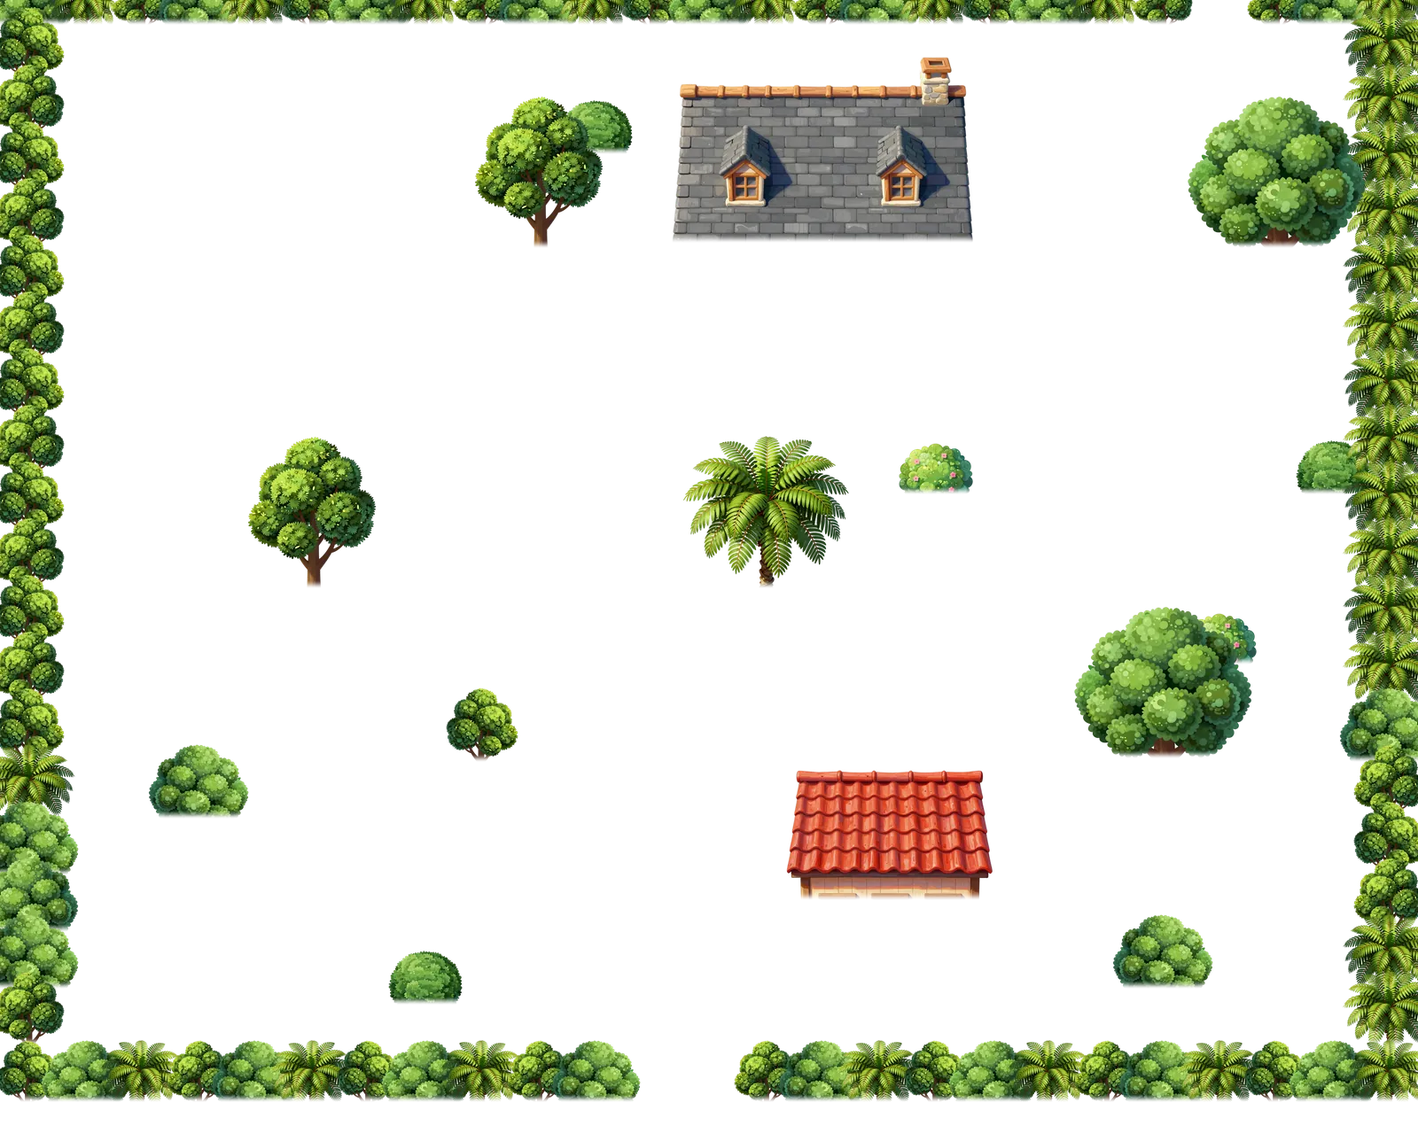
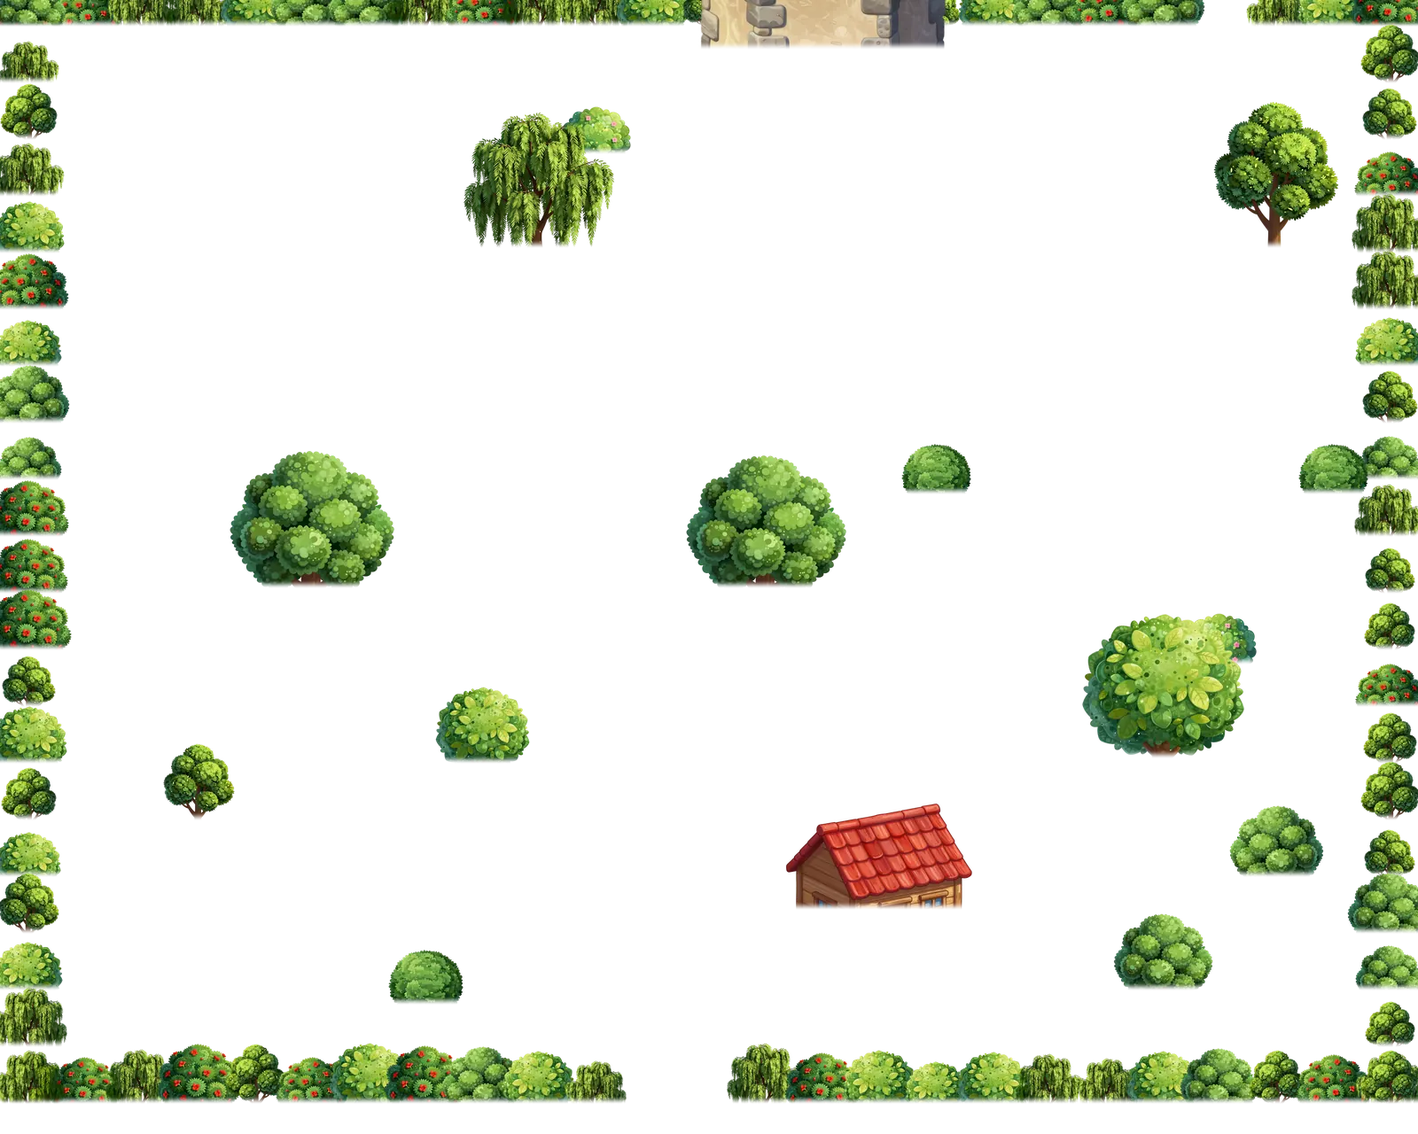
Monsters quests: painted rare monsters, bonus people and places, eggs, giants and maps
- 21 new species, plain and shiny; Geyser Gus, Diver Ngaio, Skier Rewi and the Tinker;
  battle backgrounds for the three bonus areas
- egg pictures on the Eggs page, sleeping giants and chests on the maps
- painted maps for every outdoor place
- texture prompts in positive words only ("no grid" painted grids)

diff --git a/src/games/monsters/art/painted.test.ts b/src/games/monsters/art/painted.test.ts
@@ -1,12 +1,13 @@
 import { readdirSync, statSync } from 'node:fs';
 import { join } from 'node:path';
 import { describe, expect, it } from 'vitest';
+import { EGG_LABEL } from '../../../../shared/monsters/quests/eggs';
 import { WORLD_MAPS } from '../../../../shared/monsters/maps';
 import { MONSTER_BOOK } from '../../../../shared/monsters/monsterBook';
 import { AREAS } from '../../../../shared/monsters/world/areas';
 import { ITEM_ORDER } from '../../../../shared/monsters/world/rewards';
 import { LOOKS } from '../../../../shared/monsters/world/start';
-import { allPaintedFiles, badgePic, itemPic, lookPic, monsterPic, personPic, sceneFor, scenePic, slug } from './painted';
+import { allPaintedFiles, badgePic, eggPic, itemPic, lookPic, monsterPic, personPic, sceneFor, scenePic, slug } from './painted';
 
 const DIR = join(__dirname, 'painted');
 const files = (group: string): string[] => {
@@ -18,12 +19,9 @@ const files = (group: string): string[] => {
 };
 const both = (name: string) => [name, `${name}-small`];
 
-/** Everyone on a map who talks with a name: people, nurses and trainers. */
-const PEOPLE = Object.values(WORLD_MAPS).flatMap((m) => m.things.filter((t) => t.kind === 'person' || t.kind === 'nurse' || t.kind === 'trainer').map((t) => t.name));
+/** Everyone on a map who talks with a name: people, nurses, trainers and the Tinker. */
+const PEOPLE = Object.values(WORLD_MAPS).flatMap((m) => m.things.filter((t) => t.kind === 'person' || t.kind === 'nurse' || t.kind === 'trainer' || t.kind === 'tinker').map((t) => t.name));
 const SCENES = [...new Set(Object.keys(WORLD_MAPS).map(sceneFor))];
-// The three bonus areas and their trainers are painted in Q.3 (docs/MONSTERS-QUESTS-PLAN.md); until then they show the plain look.
-const BONUS = ['steam-valley', 'lagoon-isle', 'aurora-hollow'];
-const TO_PAINT = new Set(Object.values(WORLD_MAPS).filter((m) => BONUS.includes(m.id)).flatMap((m) => m.things.map((t) => t.name)));
 
 // Every picture must be one the game looks for (a typo would mean it never shows) and small enough for a Chromebook.
 const KNOWN: Record<string, { names: Set<string>; maxKb: number }> = {
@@ -32,7 +30,7 @@ const KNOWN: Record<string, { names: Set<string>; maxKb: number }> = {
   looks: { names: new Set(LOOKS.flatMap(both)), maxKb: 120 },
   scenes: { names: new Set(SCENES.flatMap((s) => [s, `${s}-800`])), maxKb: 260 },
   badges: { names: new Set(AREAS.map((a) => a.badge)), maxKb: 50 },
-  items: { names: new Set<string>(ITEM_ORDER), maxKb: 50 },
+  items: { names: new Set<string>([...ITEM_ORDER, ...Object.keys(EGG_LABEL).map((k) => `egg-${k}`)]), maxKb: 50 },
   maps: { names: new Set(Object.keys(WORLD_MAPS).flatMap((m) => [m, `${m}-above`])), maxKb: 700 },
   props: { names: new Set(['chest', 'chest-open', 'gate', ...Object.values(WORLD_MAPS).flatMap((m) => m.things.filter((t) => t.giant).map((t) => `giant-${t.giant}`))]), maxKb: 60 },
   walkers: { names: new Set([...PEOPLE.map(slug), ...LOOKS].flatMap((w) => ['up', 'down', 'left', 'right'].map((d) => `${w}-${d}`))), maxKb: 40 },
@@ -52,20 +50,20 @@ describe('the painted pictures', () => {
 
   it('every species, plain and shiny, has a picture and a small copy', () => {
     const have = new Set(files('monsters'));
-    // The rare and ultra rare monsters are painted in Q.3 (docs/MONSTERS-QUESTS-PLAN.md); until then they use the drawing.
-    const missing = MONSTER_BOOK.filter((s) => s.rarity === 'common' || s.rarity === 'uncommon').flatMap((s) => [...both(s.id), ...both(`${s.id}-shiny`)]).filter((n) => !have.has(`${n}.webp`));
+    const missing = MONSTER_BOOK.flatMap((s) => [...both(s.id), ...both(`${s.id}-shiny`)]).filter((n) => !have.has(`${n}.webp`));
     expect(missing).toEqual([]);
   });
 
   it('every person on every map has a portrait and a small one for the talk box', () => {
-    expect(PEOPLE).toHaveLength(53);
+    expect(PEOPLE).toHaveLength(54);
     const have = new Set(files('people'));
-    expect(PEOPLE.filter((p) => !TO_PAINT.has(p)).flatMap((p) => both(slug(p))).filter((n) => !have.has(`${n}.webp`))).toEqual([]);
+    expect(PEOPLE.flatMap((p) => both(slug(p))).filter((n) => !have.has(`${n}.webp`))).toEqual([]);
   });
 
-  it('every badge and every bag item has a picture', () => {
+  it('every badge, bag item and egg has a picture', () => {
     expect(AREAS.filter((a) => !badgePic(a.badge)).map((a) => a.badge)).toEqual([]);
     expect(ITEM_ORDER.filter((id) => !itemPic(id))).toEqual([]);
+    expect(Object.keys(EGG_LABEL).filter((k) => !eggPic(k))).toEqual([]);
   });
 
   it('every look has both sizes', () => {
@@ -77,7 +75,7 @@ describe('the painted pictures', () => {
   it('every place and Topic Tower has a battle background and a phone copy', () => {
     expect(SCENES).toHaveLength(17);
     const have = new Set(files('scenes'));
-    expect(SCENES.filter((s) => !BONUS.includes(s)).flatMap((s) => [s, `${s}-800`]).filter((n) => !have.has(`${n}.webp`))).toEqual([]);
+    expect(SCENES.flatMap((s) => [s, `${s}-800`]).filter((n) => !have.has(`${n}.webp`))).toEqual([]);
   });
 
   it('a Tower’s two rooms share one background, and a place uses its own', () => {

diff --git a/src/games/monsters/world/QuestPages.tsx b/src/games/monsters/world/QuestPages.tsx
@@ -3,6 +3,7 @@
  * Tinker and the notice board. Plain HTML in the menu's Sheet; every change goes through the pure
  * rules in shared/monsters/world/questWorld.ts.
  */
+import { eggPic } from '../art/painted';
 import { BIT_NAME, canMake, describeBits, RECIPES } from '../../../../shared/monsters/quests/bits';
 import { coldWords, daysHad, daysNeeded, EGG_LABEL, eggWarmth, HATCH_SPOTS, isReady } from '../../../../shared/monsters/quests/eggs';
 import { QUESTS } from '../../../../shared/monsters/quests/quests';
@@ -81,7 +82,7 @@ export function EggPage({ world, apply, map, opts }: PageProps & { map: GameMap;
           const had = daysHad(egg, playDays);
           return (
             <li key={egg.id} className={`mq-egg mq-egg--${egg.kind}${ready ? ' is-ready' : ''}`}>
-              <span className="mq-egg__shape" aria-hidden="true" />
+              {eggPic(egg.kind) ? <img className="mq-egg__pic" src={eggPic(egg.kind)} alt="" /> : <span className="mq-egg__shape" aria-hidden="true" />}
               <div>
                 <strong>{EGG_LABEL[egg.kind][0].toUpperCase() + EGG_LABEL[egg.kind].slice(1)}</strong>
                 <span className="mq-pips" aria-label={`${had} of ${need} days`}>

diff --git a/src/games/monsters/world/world.css b/src/games/monsters/world/world.css
@@ -187,6 +187,7 @@
 .mq-egg > div, .mq-recipe > div { display: grid; gap: 2px; flex: 1; min-width: 0; }
 .mq-jobs li > span { flex: 1; min-width: 0; }
 .mq-jobs li.is-done { opacity: 0.7; }
+.mq-egg__pic { width: 44px; height: 44px; object-fit: contain; flex: none; }
 .mq-egg__shape { width: 34px; height: 44px; border-radius: 50% 50% 46% 46% / 60% 60% 40% 40%; border: 2px solid #334155; background: #f8fafc; flex: none; }
 .mq-egg--leafy .mq-egg__shape { background: #86efac; } .mq-egg--water .mq-egg__shape { background: #93c5fd; } .mq-egg--warm .mq-egg__shape { background: #fdba74; }
 .mq-egg--cold .mq-egg__shape { background: #bae6fd; } .mq-egg--glowing .mq-egg__shape { background: #fde047; } .mq-egg--stony .mq-egg__shape { background: #d6d3d1; }

diff --git a/src/games/monsters/art/painted.ts b/src/games/monsters/art/painted.ts
@@ -44,6 +44,8 @@ export function scenePic(map: string): { wide?: string; small?: string } {
 export const badgePic = (badge: string) => file('badges', badge);
 /** A plain picture of a bag item, for the Bag. */
 export const itemPic = (id: ItemId) => file('items', id);
+/** An egg by its kind ("leafy" … "stony"), for the Eggs page. */
+export const eggPic = (kind: string) => file('items', `egg-${kind}`);
 
 /**
  * A painted map (docs/MONSTERS-QUESTS-PLAN.md, Q.6): the ground, with everything that never changes painted in, and the

diff --git a/scripts/monsters-walkers-art.py b/scripts/monsters-walkers-art.py
@@ -1,0 +1,208 @@
+#!/usr/bin/env python3
+"""
+Walking characters and map props for Maths Monsters, painted on the gaming PC's ComfyUI (z-image-turbo). Runs on this computer only.
+  python scripts/monsters-walkers-art.py looks [names]    the 24 pupil looks -> art/painted/walkers/<name>-{down,up,left,right}.webp
+  python scripts/monsters-walkers-art.py people [names]   every portrait in art/painted/people -> walkers/
+  python scripts/monsters-walkers-art.py props            chest, chest-open, gate -> art/painted/props/
+  python scripts/monsters-walkers-art.py sheets           contact sheets in docs/monsters-art-test/
+Skips files that exist (delete one to redo it). Paints down, up and right; left is right mirrored.
+Change a bad one with SEEDS below (name/dir -> seed), delete its file and rerun.
+Use ~/.cache/rembg-venv/bin/python (Pillow, numpy, scipy, rembg).
+"""
+import importlib.util, sys
+from pathlib import Path
+import numpy as np
+from PIL import Image, ImageDraw
+from scipy.ndimage import label
+
+ROOT = Path(__file__).resolve().parent.parent
+spec = importlib.util.spec_from_file_location('wa', ROOT / 'scripts/monsters-world-art.py')
+wa = importlib.util.module_from_spec(spec); spec.loader.exec_module(wa)
+
+PAINTED = ROOT / 'src/games/monsters/art/painted'
+WALK, PROPS = PAINTED / 'walkers', PAINTED / 'props'
+OUT = ROOT / 'docs/monsters-art-test'
+RAW = Path.home() / '.cache/monsters-walkers'
+SEED = 777
+DENOISE = {'down': 0.7, 'up': 0.8, 'right': 0.8}
+SEEDS = {}  # 'boy-03/right': 781 ...
+DIRS = {'down': 'facing toward the viewer, we see the face', 'up': 'seen from directly behind, back view, facing away from the viewer, the back of the head and the backpack, no face visible',
+        'right': 'side view in profile, walking to the right, the whole body turned to face the right edge of the picture, one leg forward, face in profile'}
+STYLE = 'bright flat storybook illustration'
+_sess = None
+
+def cutout(raw):
+    global _sess
+    from rembg import new_session, remove
+    _sess = _sess or new_session('isnet-general-use')
+    cut = remove(Image.open(raw).convert('RGB'), session=_sess, alpha_matting=True)
+    a = np.array(cut)
+    lab, n = label(a[..., 3] > 20)
+    if n > 1:  # drop floating specks and shadow blobs
+        sizes = np.bincount(lab.ravel())[1:]
+        for i, s in enumerate(sizes, 1):
+            if s < sizes.max() * 0.04:
+                a[lab == i, 3] = 0
+    cut = Image.fromarray(a)
+    return cut.crop(cut.getbbox())
+
+def save_webp(im, path, limit):
+    path.parent.mkdir(parents=True, exist_ok=True)
+    for q in (92, 85, 78, 70, 60, 50):
+        im.save(path, 'WEBP', quality=q, method=6)
+        if path.stat().st_size < limit:
+            return
+    print('  WARNING over size', path.name, path.stat().st_size)
+
+def fit_walker(cut):
+    s = min(88 / cut.height, 92 / cut.width)
+    cut = cut.resize((max(1, round(cut.width * s)), max(1, round(cut.height * s))), Image.LANCZOS)
+    out = Image.new('RGBA', (96, 96), (0, 0, 0, 0))
+    out.paste(cut, ((96 - cut.width) // 2, 92 - cut.height), cut)
+    return out
+
+def paint_ref(refpath, text, seed, raw, denoise):
+    src = Image.open(refpath).convert('RGBA')
+    src.thumbnail((460, 460))  # whole figure small on a white square, so the model paints head to feet with room around
+    ref = Image.new('RGB', (640, 640), 'white')
+    ref.paste(src, ((640 - src.width) // 2, (640 - src.height) // 2), src)
+    tmp = RAW / '_ref.png'
+    ref.save(tmp)
+    nm = wa.upload(tmp)
+    w, h = ref.size[0] // 16 * 16, ref.size[1] // 16 * 16
+    latent = {'l': {'class_type': 'LoadImage', 'inputs': {'image': nm}},
+              's': {'class_type': 'ImageScale', 'inputs': {'image': ['l', 0], 'upscale_method': 'lanczos', 'width': w, 'height': h, 'crop': 'disabled'}},
+              '7': {'class_type': 'VAEEncode', 'inputs': {'pixels': ['s', 0], 'vae': ['3', 0]}}}
+    wa.run(wa.base(text, seed, denoise, latent), raw)
+
+def colour_name(rgb):
+    import colorsys
+    h, s_, v = colorsys.rgb_to_hsv(*[c / 255 for c in rgb]); h *= 360
+    if v < 0.22: return 'black'
+    if s_ < 0.18: return 'white' if v > 0.8 else ('light grey' if v > 0.55 else 'dark grey')
+    shade = 'dark ' if v < 0.45 else ('light ' if v > 0.85 and s_ < 0.5 else '')
+    if h < 15 or h >= 345: n = 'red'
+    elif h < 40: n = 'brown' if v < 0.65 else 'orange'
+    elif h < 65: n = 'yellow' if v > 0.6 else 'olive'
+    elif h < 165: n = 'green'
+    elif h < 200: n = 'teal'
+    elif h < 255: n = 'blue'
+    elif h < 295: n = 'purple'
+    else: n = 'pink'
+    return shade + n
+
+def describe(refpath):
+    """Main colours of hair, top and legs from the reference, so the prompt keeps them."""
+    a = np.array(Image.open(refpath).convert('RGBA')); ys = np.where(a[..., 3] > 200)[0]
+    y0, y1 = ys.min(), ys.max(); hgt = y1 - y0
+    def band(f0, f1):
+        b = a[y0 + int(hgt * f0):y0 + int(hgt * f1)]
+        px = b[b[..., 3] > 200][:, :3]
+        return colour_name(tuple(int(c) for c in np.median(px, axis=0))) if len(px) else 'grey'
+    return f"{band(0.02, 0.1)} hair, a {band(0.3, 0.5)} top, {band(0.62, 0.8)} trousers or skirt"
+
+def walker(name, refpath, adult):
+    refpath0 = refpath
+    RAW.mkdir(parents=True, exist_ok=True)
+    WALK.mkdir(parents=True, exist_ok=True)
+    who = ('a grown-up person, an adult, with the same age, face, hair, skin and clothes as the reference' if adult else
+           f"a cheerful 9 year old {'boy' if name.startswith('boy') else 'girl'}, a school pupil, in the same clothes, same hairstyle and hair colour, same brown or light skin colour as the reference")
+    desc = 'Colours to keep: ' + describe(refpath0)
+    for d, words in DIRS.items():
+        dest = WALK / f'{name}-{d}.webp'
+        if d == 'right':
+            todo = [dest, WALK / f'{name}-left.webp']
+        else:
+            todo = [dest]
+        if all(p.exists() for p in todo):
+            continue
+        text = (f"{desc}. Tiny full-body game character sprite of {who}, {words}, standing, whole body visible from the top of the head to the shoes with white space all around, small in the picture, "
+                f"seen from a high top-down three-quarter overhead angle, {STYLE}, plain flat white background, no text, no shadow")
+        raw = RAW / f'{name}-{d}.png'
+        if d != 'down' and (RAW / f'{name}-down.png').exists():
+            refpath = RAW / f'{name}-down.png'  # re-pose the painted front view: keeps the clothes the same
+        paint_ref(refpath, text, SEEDS.get(f'{name}/{d}', SEED), raw, DENOISE[d])
+        img = fit_walker(cutout(raw))
+        save_webp(img, dest, 40000)
+        if d == 'right':
+            save_webp(img.transpose(Image.FLIP_LEFT_RIGHT), WALK / f'{name}-left.webp', 40000)
+        print('made', dest.name, flush=True)
+
+def look_names():
+    return [f'{b}-{i:02d}' for b in ('boy', 'girl') for i in range(1, 13)]
+
+def people_names():
+    return sorted(p.stem for p in (PAINTED / 'people').glob('*.webp') if not p.stem.endswith('-small'))
+
+def props():
+    PROPS.mkdir(parents=True, exist_ok=True)
+    RAW.mkdir(parents=True, exist_ok=True)
+    common = (f"A single game map prop for a top-down overhead game map, {STYLE}, clean simple shapes, flat vivid colours, soft shading, "
+              "seen from a high three-quarter top-down angle, centred, plain flat white background, no text, no shadow, no ground")
+    def txt2img(text, seed, raw, w=768, h=768):
+        latent = {'7': {'class_type': 'EmptySD3LatentImage', 'inputs': {'width': w, 'height': h, 'batch_size': 1}}}
+        wa.run(wa.base(text, seed, 1.0, latent), raw)
+    def fit(cut):
+        s = min(124 / cut.width, 124 / cut.height)
+        cut = cut.resize((max(1, round(cut.width * s)), max(1, round(cut.height * s))), Image.LANCZOS)
+        out = Image.new('RGBA', (128, 128), (0, 0, 0, 0))
+        out.paste(cut, ((128 - cut.width) // 2, (128 - cut.height) // 2), cut)
+        return out
+    cs = SEEDS.get('chest', 5)
+    raw = RAW / 'chest.png'
+    if not (PROPS / 'chest.webp').exists() or not (PROPS / 'chest-open.webp').exists():
+        txt2img(f"{common}. A closed wooden treasure chest with a rounded lid, brown planks and gold metal bands and a golden lock.", cs, raw)
+        if not (PROPS / 'chest.webp').exists():
+            save_webp(fit(cutout(raw)), PROPS / 'chest.webp', 60000); print('made chest')
+    if not (PROPS / 'chest-open.webp').exists():
+        # img2img kept the lid shut, so this is a pair: same seed, same words, only the lid changes
+        text = (f"{common}. An open wooden treasure chest with the lid swung wide open and tilted back behind it, brown planks and gold metal bands, "
+                "the inside of the chest is empty, bare wooden inside, no gold, no treasure.")
+        raw2 = RAW / 'chest-open.png'
+        txt2img(text, SEEDS.get('chest-open', cs), raw2)
+        save_webp(fit(cutout(raw2)), PROPS / 'chest-open.webp', 60000); print('made chest-open')
+    if not (PROPS / 'gate.webp').exists():
+        raw3 = RAW / 'gate.png'
+        txt2img(f"{common}. A short wooden post-and-rope fence section seen from the front, two stout wooden posts joined by a thick rope sagging between them, "
+                "wide and low, blocking a path.", SEEDS.get('gate', 7), raw3, 768, 512)
+        save_webp(fit(cutout(raw3)), PROPS / 'gate.webp', 60000); print('made gate')
+
+def sheet(title, names, per_row, dest):
+    cell, lab = 96, 12
+    rows = (len(names) + per_row - 1) // per_row
+    im = Image.new('RGB', (per_row * 4 * cell, rows * (cell + lab)), (110, 170, 90))
+    dr = ImageDraw.Draw(im)
+    for i, n in enumerate(names):
+        x0, y0 = (i % per_row) * 4 * cell, (i // per_row) * (cell + lab)
+        dr.text((x0 + 2, y0), n, fill=(0, 0, 0))
+        for k, d in enumerate(('down', 'up', 'left', 'right')):
+            p = WALK / f'{n}-{d}.webp'
+            if p.exists():
+                t = Image.open(p).convert('RGBA')
+                im.paste(t, (x0 + k * cell, y0 + lab), t)
+    im.save(dest); print(dest, im.size)
+
+def sheets():
+    sheet('looks', look_names(), 4, OUT / 'walkers-looks.png')
+    sheet('people', people_names(), 4, OUT / 'walkers-people.png')
+    names = ['chest', 'chest-open', 'gate']
+    im = Image.new('RGB', (3 * 144, 144), (110, 170, 90))
+    for i, n in enumerate(names):
+        p = PROPS / f'{n}.webp'
+        if p.exists():
+            t = Image.open(p).convert('RGBA')
+            im.paste(t, (i * 144 + 8, 8), t)
+    im.save(OUT / 'props.png'); print(OUT / 'props.png')
+
+if __name__ == '__main__':
+    cmd, rest = sys.argv[1], sys.argv[2:]
+    if cmd == 'looks':
+        for n in rest or look_names():
+            walker(n, PAINTED / 'looks' / f'{n}.webp', False)
+    elif cmd == 'people':
+        for n in rest or people_names():
+            walker(n, PAINTED / 'people' / f'{n}.webp', True)
+    elif cmd == 'props':
+        props()
+    elif cmd == 'sheets':
+        sheets()

diff --git a/scripts/monsters-map-paint.py b/scripts/monsters-map-paint.py
@@ -31,8 +31,13 @@ wa = importlib.util.module_from_spec(spec); spec.loader.exec_module(wa)
 
 # ---------- the parts ----------
 STYLE = 'hand-painted, soft painterly brush strokes, bright cheerful colours, polished modern cosy top-down RPG game art, friendly for children'
-FLAT = 'flat even lighting, no objects, no shadows, no text'
-def texture(words): return f'seamless tileable top-down texture of {words}, {STYLE}, {FLAT}'
+# Positive words only: this model paints whatever a prompt names, even after "no" ("no grid" gave grids).
+FLAT = 'flat even soft lighting, one even natural surface spreading all over, organic and irregular'
+def texture(words, style=STYLE): return f'seamless tileable top-down texture of {words}, {style}, {FLAT}'
+# The game-art words drew coins and smiley faces on bare stone, so plain rock and dark water use these instead.
+NATURAL = 'painterly digital painting of real natural stone, soft brush strokes, muted natural colours'
+# Textures repainted with a new seed after the first tries came out wrong.
+RESEED = {'cavefloor': 900, 'rockwall': 900, 'cavewater': 900}
 TEX = {
     # green bush and town
     'grass': texture('a lush bright green meadow lawn, short soft grass blades with subtle light and dark patches, no flowers'),
@@ -48,19 +53,19 @@ TEX = {
     'snow': texture('fresh clean white snow with soft pale blue shading and gentle drifts'),
     'snowpath': texture('a trodden snowy footpath, packed snow with footprints and a little grey grit, crisp detail'),
     'tussock': texture('thick frosty alpine tussock grass, pale green and silver blades dusted with snow'),
-    'ice': texture('smooth glassy pale blue lake ice with white cracks and frosty swirls, no tiles, no grid'),
+    'ice': texture('smooth glassy pale blue frozen lake ice with long thin white cracks and soft frosty swirls, organic and irregular'),
     # volcanic ash
-    'ash': texture('dark grey volcanic ash ground with small black pumice pebbles and faint warm cracks'),
-    'ashpath': texture('a reddish brown volcanic gravel track, crunchy scoria stones, crisp detail'),
+    'ash': texture('dark grey volcanic ash ground, soft powdery ash scattered with small black pumice pebbles and thin glowing orange cracks'),
+    'ashpath': texture('a winding reddish brown volcanic gravel track of small crunchy scoria pebbles, loose and irregular'),
     'scorched': texture('dry scorched orange and brown tussock grass, thick tufts, hot and dusty'),
-    'lava': texture('glowing molten orange and red lava with dark crusty swirls, bright and hot, no tiles, no grid'),
+    'lava': texture('flowing molten orange and yellow lava with swirling dark red crust and bright glowing rivers, liquid and irregular'),
     'hotwater': texture('steaming milky turquoise hot spring water with soft bubbles, no tiles, no grid'),
     # cave
-    'cavefloor': texture('a smooth dark blue-grey cave floor of stone with soft damp patches'),
+    'cavefloor': texture('smooth dark slate grey cave ground, soft uneven damp stone with gentle blue-grey shading and fine sandy grit, all one grey stone', NATURAL),
     'cavepath': texture('a worn sandy-grey stone path through a cave, flat stepping slabs, crisp detail'),
     'moss': texture('thick soft cave moss in teal and green with tiny glowing blue dots, like glowworms'),
-    'rockwall': texture('a rough craggy dark grey cave rock wall seen from above, chunky boulders and cracks'),
-    'cavewater': texture('dark still underground pool water, deep blue with soft blue glowing reflections, no tiles, no grid'),
+    'rockwall': texture('rough jagged dark grey cliff rock seen from above, layered slate ridges and deep shadowed crevices, all one grey stone', NATURAL),
+    'cavewater': texture('dark still underground pool water, deep navy blue with soft pale blue ripple reflections, all one smooth liquid surface', NATURAL),
     # city
     'cobble': texture('a neat grey cobblestone street, rounded stones in tidy rows, crisp detail'),
 }
@@ -133,7 +138,7 @@ def parts(only=None):
         d = PARTS / f'tex-{n}.png'
         if (only and only != n) or d.exists(): continue
         raw = PARTS / f'_raw-tex-{n}.png'
-        txt2img(text, 1024, 1024, 100 + i, raw)
+        txt2img(text, 1024, 1024, 100 + i + RESEED.get(n, 0), raw)
         tileable(Image.open(raw)).save(d); print(d.name, round(time.time() - t0), flush=True)
     for i, (n, (text, w, h)) in enumerate(SPR.items()):
         d = PARTS / f'{n}.png'

diff --git a/scripts/monsters-art.py b/scripts/monsters-art.py
@@ -21,6 +21,7 @@ Names become file names with the same rule as art/painted.ts (slug). A slot is s
 than its PNG, so the script can be run again whenever more pictures arrive. Pictures are done one at a time, because
 rembg wants a lot of memory.
 """
+from __future__ import annotations
 import re
 import sys
 from pathlib import Path
